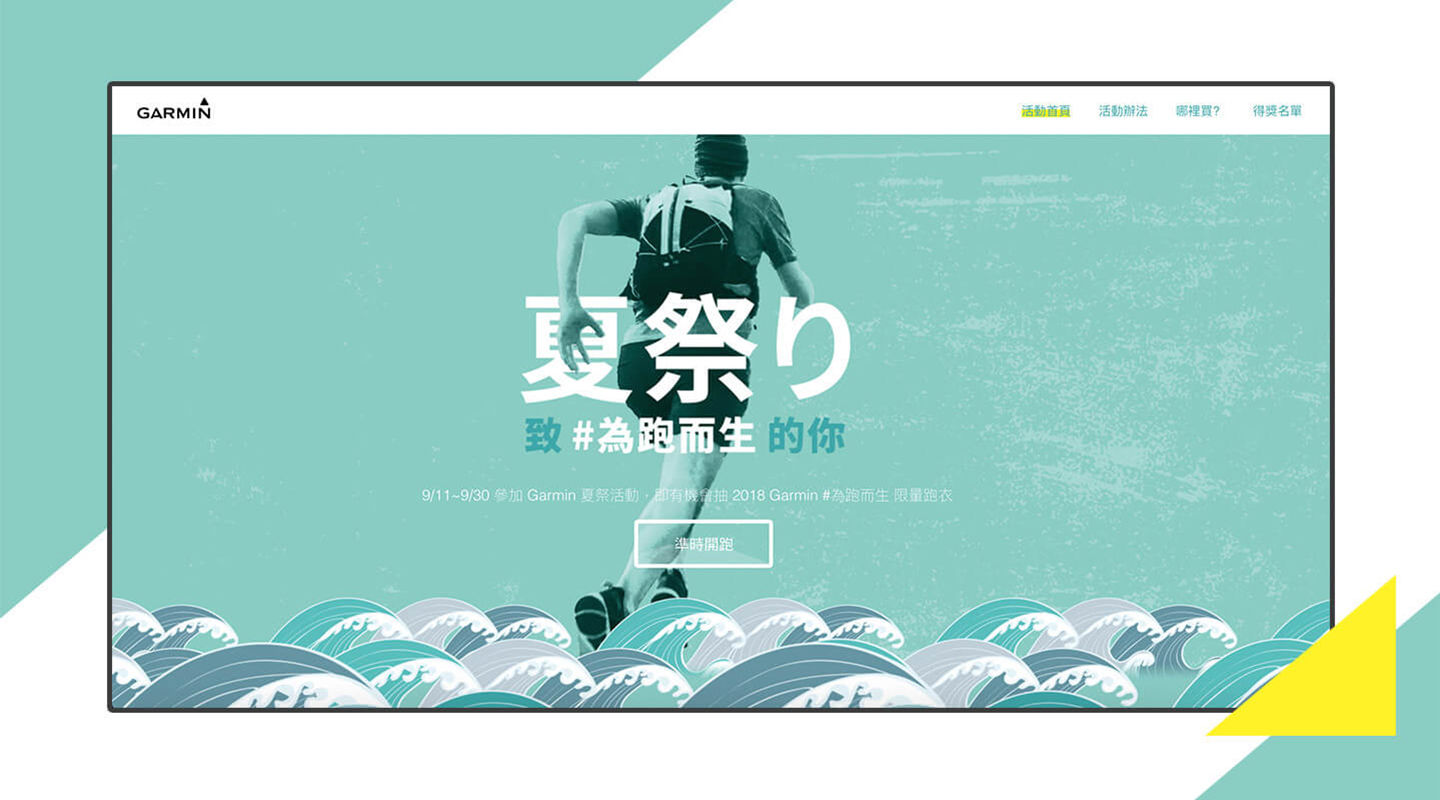
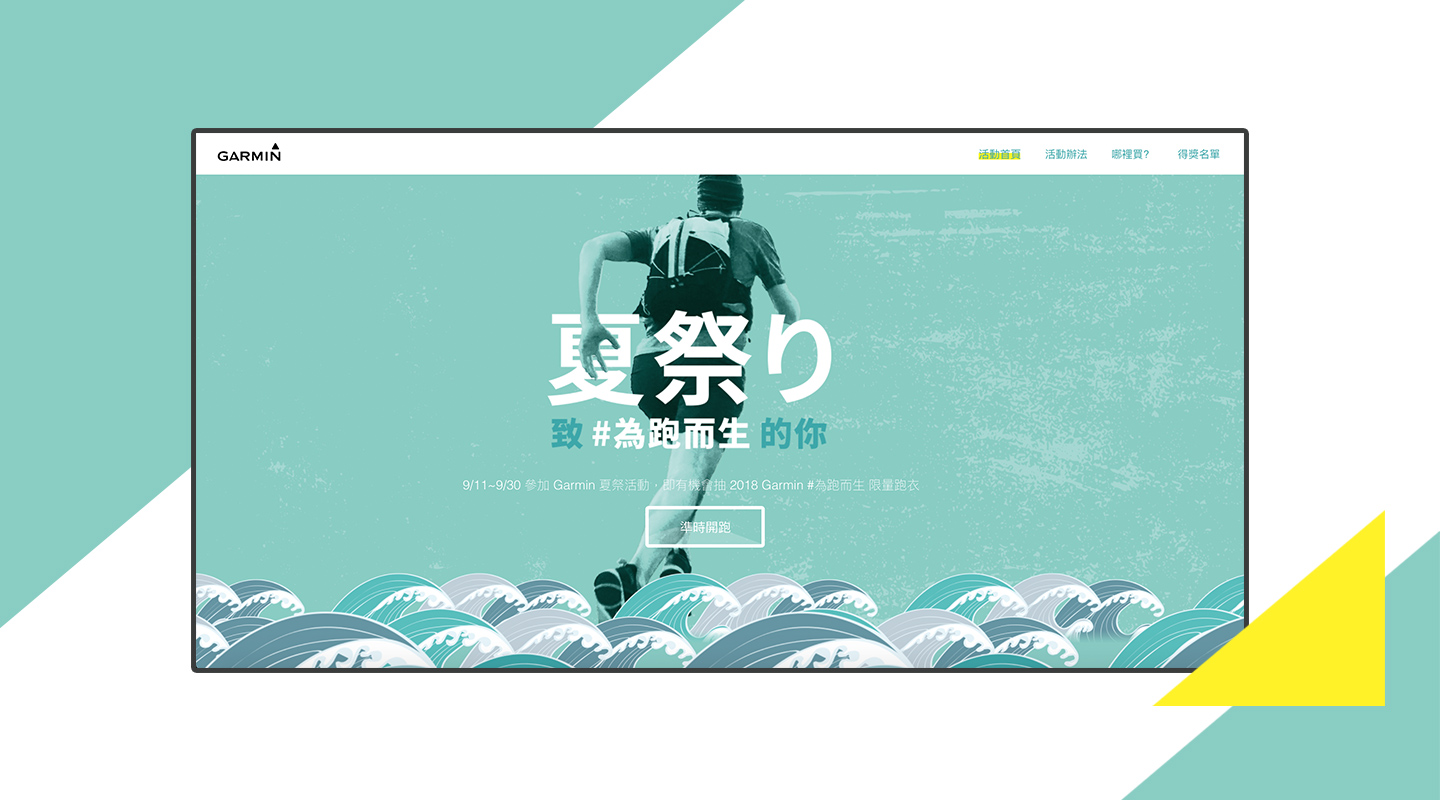
Update

diff --git a/summer-festival.html b/summer-festival.html
@@ -19,6 +19,31 @@
 </head>
 
 <body class="work-white-b">
+    <header>
+        <nav>
+            <div id="brand">
+                <a class="garmin-logo" target="_blank" href="index.html">
+                    <div id="logo"></div>
+                </a>
+            </div>
+            <div id="menu">
+                <div id="menu-toggle">
+                    <div id="menu-icon">
+                        <div class="bar"></div>
+                        <div class="bar"></div>
+                        <div class="bar"></div>
+                    </div>
+                </div>
+                <ul>
+                    <li><a href="index.html#hero">Home</a></li>
+                    <li><a href="index.html#about">About</a></li>
+                    <li><a href="index.html#focus">Focus</a></li>
+                    <li><a href="index.html#works">Works</a></li>
+                    <li><a href="index.html#contact">Contact</a></li>
+                </ul>
+            </div>
+        </nav>
+    </header>
     <div class="wrapper">
         <div class="hero-banner" style="background-image: url('images/summerfestival_01.jpg');"></div>
         <div class="inner">
